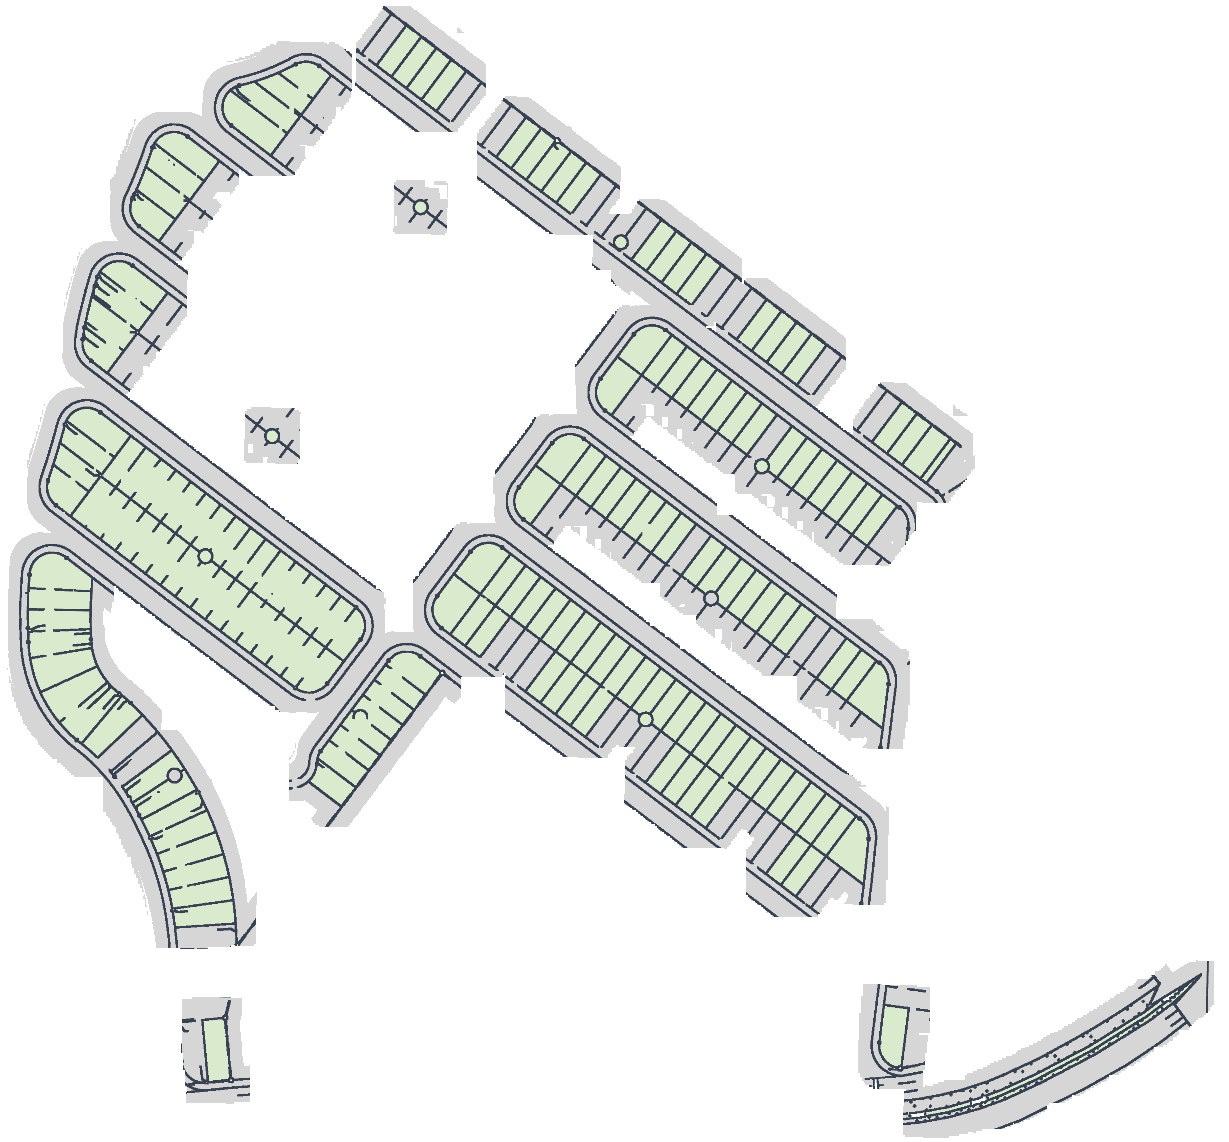
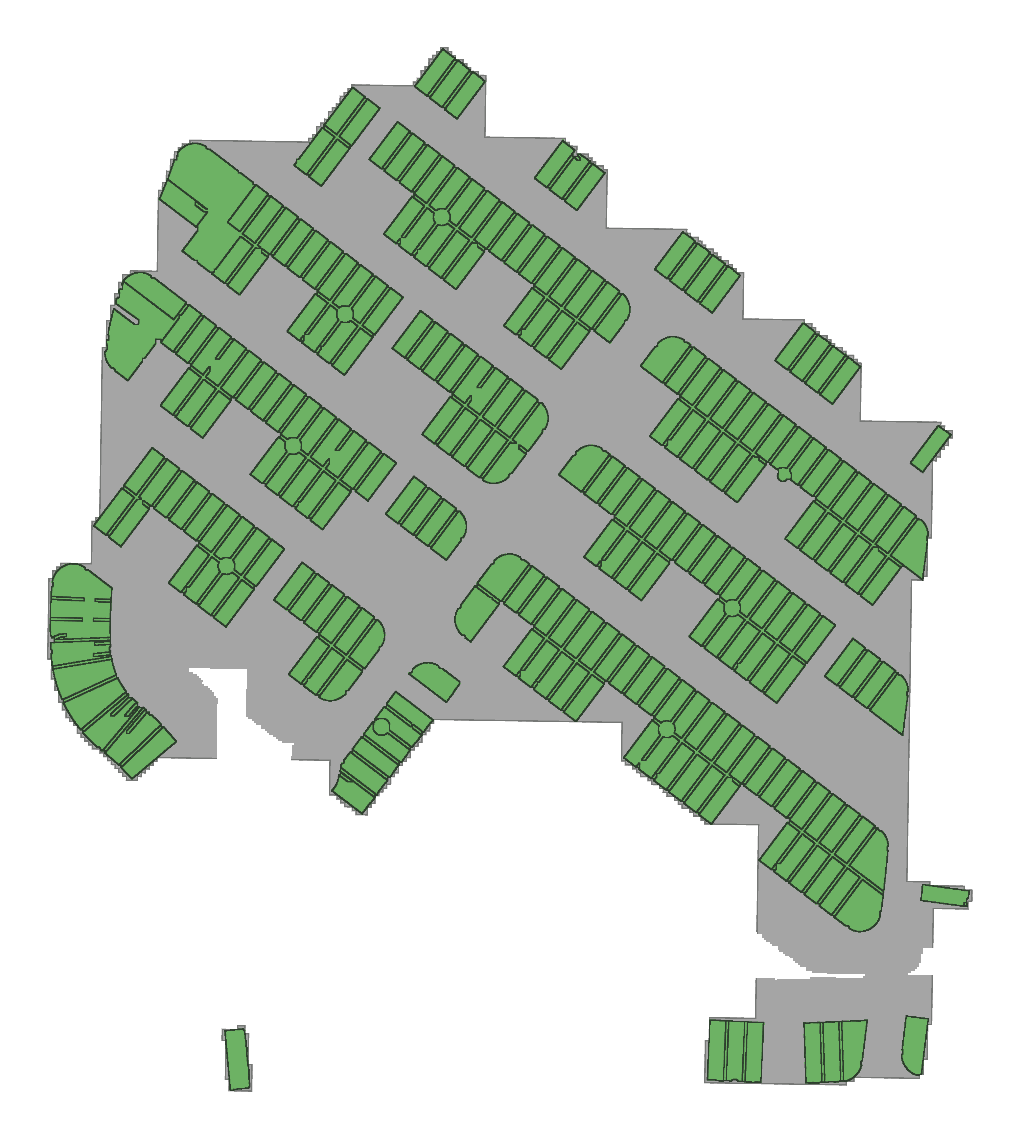
Mapa de lotes: desenho clean nas 14 plantas (quadras verdes, ruas cinza, divisas finas) no padrão escolhido pelo Fabio; bounds atualizados

diff --git a/mapa-lotes-indaiatuba/index.html b/mapa-lotes-indaiatuba/index.html
@@ -133,19 +133,19 @@
 const TIPOS = { RESIDENCIAL:['Residencial','var(--res)','#2e7d5b'], MISTO:['Misto (comercial)','var(--mis)','#b8641b'], COMERCIAL:['Comercial','var(--com)','#1f5fa8'], AVENIDA:['Avenida','var(--ave)','#7a3fb5'], GLEBA:['Gleba','var(--gle)','#8a6d1f'] };
 const BAIRROS = [
   { id:'sanmarino', nome:'Terras de San Marino', sub:'condomínio fechado em lançamento · a prazo em 60x', landing:'/terras-de-san-marino-indaiatuba/', cond:'juros de 1% a.m. na tabela PRICE · correção anual pelo IGP-M', overlay:{ url:'images/sanmarino.png', bounds:[[-23.102199854,-47.261326372],[-23.097726916,-47.256612673]] } },
-  { id:'alpnach', nome:'Alpnach Residence', sub:'condomínio fechado · 322 lotes · a prazo em 48x', landing:'/alpnach-indaiatuba/', cond:'entrada de 20% e saldo em 48x, conforme relatório Dominium de 04/09/2026', overlay:{ url:'images/alpnach.png', bounds:[[-23.083610998,-47.238899336],[-23.075762995,-47.230555706]] } },
-  { id:'montecarmelo', nome:'Residencial Monte Carmelo', sub:'loteamento aberto · 568 lotes · a prazo em até 96x', landing:'/monte-carmelo-indaiatuba/', cond:'entrada de 10% e saldo em 24, 48 ou 96x conforme o lote, relatório Dominium de 02/09/2026', overlay:{ url:'images/montecarmelo.png', bounds:[[-23.097773938,-47.290932876],[-23.088498791,-47.279545380]] } },
-  { id:'ravello', nome:'Residencial Ravello', sub:'condomínio fechado · 710 lotes · a prazo em 48x', landing:'/residencial-ravello-indaiatuba/', cond:'entrada de 20% e saldo em 48x, conforme relatório Dominium de 02/09/2026', overlay:{ url:'images/ravello.png', bounds:[[-23.084102488,-47.249835979],[-23.070979304,-47.232579325]] } },
-  { id:'diitalia', nome:'Jardim Di Italia', sub:'loteamento · 404 lotes · a prazo em 60x', landing:'/di-italia-indaiatuba/', cond:'entrada de 20% e saldo em 60x, conforme relatório Dominium de 04/09/2026', overlay:{ url:'images/diitalia.png', bounds:[[-23.103678379,-47.263309419],[-23.099575729,-47.258509475]] } },
-  { id:'canarios',   nome:'Vila dos Canários', overlay:{ url:'images/canarios.png', bounds:[[-23.108966005,-47.267950927],[-23.107191835,-47.266595239]] } },
-  { id:'zarah-safira', nome:'Parque Zarah — Safira (fase 1)', sub:'condomínio fechado Zarin · 420 lotes · entrega dez/2026', landing:'/parque-zarah-indaiatuba/', cond:'ato de 12% + 180 parcelas mensais, tabela Zarin de set/2026', overlay:{ url:'images/zarah-safira.png', bounds:[[-23.103867177,-47.268118877],[-23.098195846,-47.263557482]] } },
-  { id:'zarah-rubi', nome:'Parque Zarah — Rubi (fase 2)', sub:'condomínio fechado Zarin · 493 lotes · entrega dez/2028', landing:'/parque-zarah-indaiatuba/', cond:'ato de 12% + 180 parcelas mensais, tabela Zarin de set/2026', overlay:{ url:'images/zarah-rubi.png', bounds:[[-23.098638783,-47.266014750],[-23.093968440,-47.260106153]] } },
-  { id:'zarah-perola', nome:'Parque Zarah — Pérola (fase 3)', sub:'condomínio fechado Zarin · 657 lotes · entrega dez/2028', landing:'/parque-zarah-indaiatuba/', cond:'ato de 12% + 180 parcelas mensais, tabela Zarin de set/2026', overlay:{ url:'images/zarah-perola.png', bounds:[[-23.099445703,-47.270087320],[-23.093936102,-47.265363011]] } },
-  { id:'bemtevi',    nome:'Jardim Bem-Te-Vi', overlay:{ url:'images/bemtevi.png', bounds:[[-23.104081502,-47.269804469],[-23.101092917,-47.266730672]] } },
+  { id:'alpnach', nome:'Alpnach Residence', sub:'condomínio fechado · 322 lotes · a prazo em 48x', landing:'/alpnach-indaiatuba/', cond:'entrada de 20% e saldo em 48x, conforme relatório Dominium de 04/09/2026', overlay:{ url:'images/alpnach.png', bounds:[[-23.084535311,-47.240123428],[-23.075452232,-47.230543902]] } },
+  { id:'montecarmelo', nome:'Residencial Monte Carmelo', sub:'loteamento aberto · 568 lotes · a prazo em até 96x', landing:'/monte-carmelo-indaiatuba/', cond:'entrada de 10% e saldo em 24, 48 ou 96x conforme o lote, relatório Dominium de 02/09/2026', overlay:{ url:'images/montecarmelo.png', bounds:[[-23.097533621,-47.290940137],[-23.088498938,-47.279639671]] } },
+  { id:'ravello', nome:'Residencial Ravello', sub:'condomínio fechado · 710 lotes · a prazo em 48x', landing:'/residencial-ravello-indaiatuba/', cond:'entrada de 20% e saldo em 48x, conforme relatório Dominium de 02/09/2026', overlay:{ url:'images/ravello.png', bounds:[[-23.083976180,-47.248913611],[-23.073404646,-47.231775004]] } },
+  { id:'diitalia', nome:'Jardim Di Italia', sub:'loteamento · 404 lotes · a prazo em 60x', landing:'/di-italia-indaiatuba/', cond:'entrada de 20% e saldo em 60x, conforme relatório Dominium de 04/09/2026', overlay:{ url:'images/diitalia.png', bounds:[[-23.103651874,-47.263391555],[-23.099539914,-47.259392460]] } },
+  { id:'canarios',   nome:'Vila dos Canários', overlay:{ url:'images/canarios.png', bounds:[[-23.108888913,-47.267867584],[-23.107270446,-47.266678606]] } },
+  { id:'zarah-safira', nome:'Parque Zarah — Safira (fase 1)', sub:'condomínio fechado Zarin · 420 lotes · entrega dez/2026', landing:'/parque-zarah-indaiatuba/', cond:'ato de 12% + 180 parcelas mensais, tabela Zarin de set/2026', overlay:{ url:'images/zarah-safira.png', bounds:[[-23.103798440,-47.268241365],[-23.098270196,-47.263908391]] } },
+  { id:'zarah-rubi', nome:'Parque Zarah — Rubi (fase 2)', sub:'condomínio fechado Zarin · 493 lotes · entrega dez/2028', landing:'/parque-zarah-indaiatuba/', cond:'ato de 12% + 180 parcelas mensais, tabela Zarin de set/2026', overlay:{ url:'images/zarah-rubi.png', bounds:[[-23.098559758,-47.265937951],[-23.094132776,-47.261098746]] } },
+  { id:'zarah-perola', nome:'Parque Zarah — Pérola (fase 3)', sub:'condomínio fechado Zarin · 657 lotes · entrega dez/2028', landing:'/parque-zarah-indaiatuba/', cond:'ato de 12% + 180 parcelas mensais, tabela Zarin de set/2026', overlay:{ url:'images/zarah-perola.png', bounds:[[-23.099381563,-47.270020427],[-23.094009346,-47.265429966]] } },
+  { id:'bemtevi',    nome:'Jardim Bem-Te-Vi', overlay:{ url:'images/bemtevi.png', bounds:[[-23.104041735,-47.269727754],[-23.100557515,-47.266166000]] } },
   { id:'andorinhas', nome:'Jardim das Andorinhas', overlay:{ url:'images/andorinhas.png', bounds:[[-23.108933536,-47.271905228],[-23.104357386,-47.269077513]] } },
-  { id:'araras',     nome:'Jardim das Araras', overlay:{ url:'images/araras.png', bounds:[[-23.095545258,-47.288286726],[-23.088084019,-47.277266836]] } },
-  { id:'campobonito',nome:'Parque Campo Bonito', sub:'lotes 12x · glebas na Av. Clóvis Ferraz de Camargo', centro:[-23.09681,-47.27876], overlay:{ url:'images/campobonito.png', bounds:[[-23.100143220,-47.283237886],[-23.092057285,-47.269997041]] } },
-  { id:'barnabe',    nome:'Parque Barnabé (Smart City)', sub:'loteamento Smart City', overlay:{ url:'images/barnabe.png', bounds:[[-23.092452167,-47.283916333],[-23.084265534,-47.273065721]] } },
+  { id:'araras',     nome:'Jardim das Araras', overlay:{ url:'images/araras.png', bounds:[[-23.096753908,-47.288471910],[-23.088155965,-47.275681182]] } },
+  { id:'campobonito',nome:'Parque Campo Bonito', sub:'lotes 12x · glebas na Av. Clóvis Ferraz de Camargo', centro:[-23.09681,-47.27876], overlay:{ url:'images/campobonito.png', bounds:[[-23.101283068,-47.283275194],[-23.091153974,-47.266513172]] } },
+  { id:'barnabe',    nome:'Parque Barnabé (Smart City)', sub:'loteamento Smart City', overlay:{ url:'images/barnabe.png', bounds:[[-23.092306712,-47.284835691],[-23.084104152,-47.273122074]] } },
 ];
 const LOTES = [
   // Terras de San Marino — espelho de vendas de 02/09/2026 (à vista R$ 1.650/m²; a prazo R$ 1.750/m², entrada 20%, saldo em 60x)
